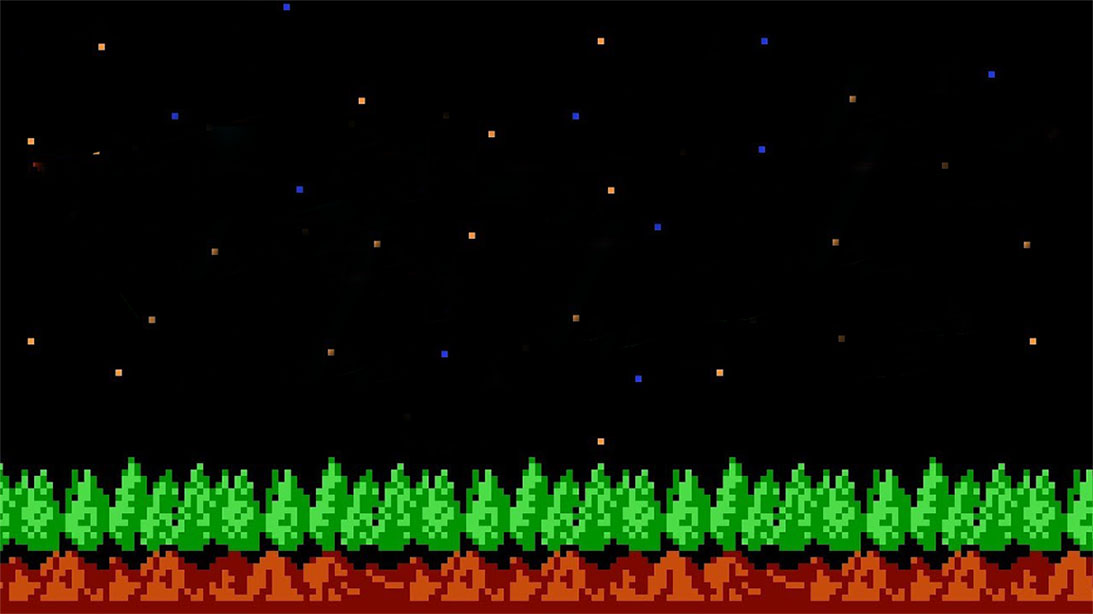
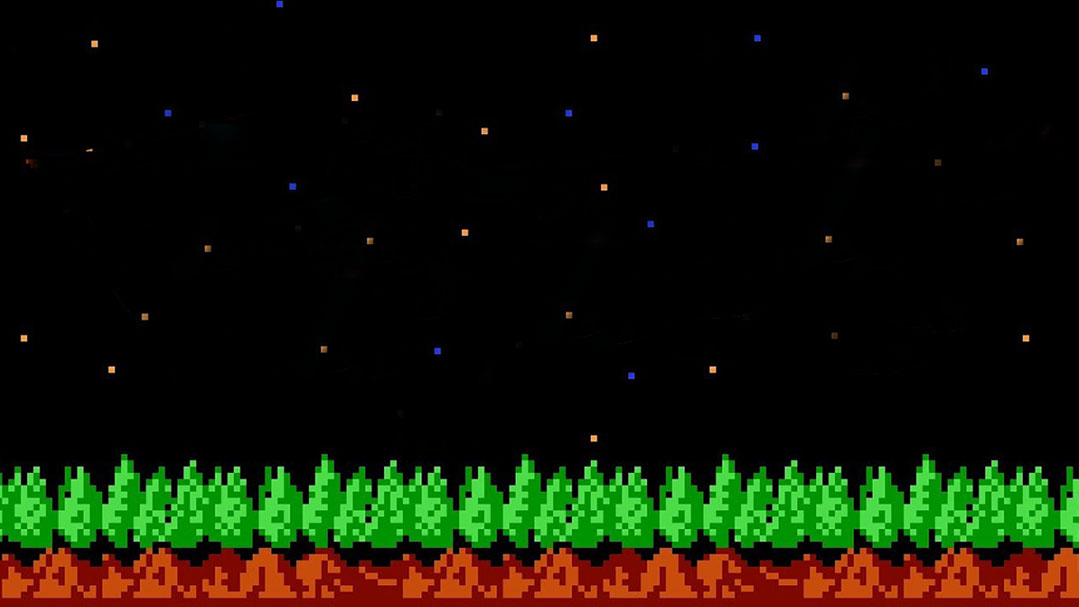
fixed scrolling

diff --git a/css/style.css b/css/style.css
@@ -3,7 +3,7 @@
 	height: 100%;
 	margin: 0 auto;
 	position:fixed;
-   background:url(https://i.imgur.com/OPL8z6w.jpg);
+   background:url(https://i.imgur.com/1JUAYEm.jpg);
   -webkit-animation:50s scroll infinite linear;
   -moz-animation:50s scroll infinite linear;
   -o-animation:50s scroll infinite linear;
